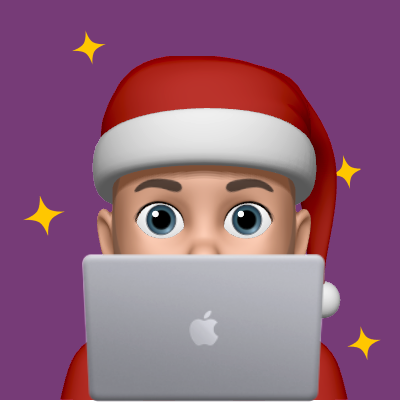
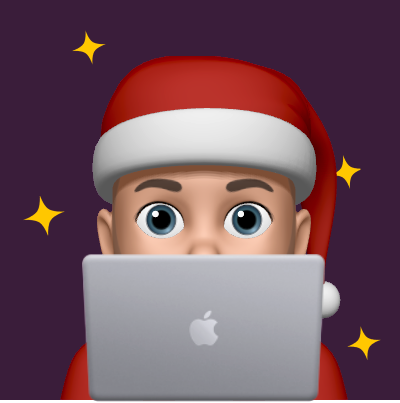
feat: add olaf santa head 🎅

diff --git a/pages/_document.tsx b/pages/_document.tsx
@@ -2,6 +2,54 @@ import Document, { Main, Head, Html, NextScript, DocumentContext } from 'next/do
 import Script from 'next/script';
 import { ScriptAfterInteraction } from '../components/shared/components/scriptAfterInteraction/ScriptAfterInteraction';
 
+type CreateSlotProps = {
+  children: Array<ReactElement>;
+  component: (props?: any) => JSX.Element;
+};
+
+function createSlot({ children, component }: CreateSlotProps) {
+  return Children.toArray(children).filter(
+    (child) => isValidElement(child) && child.type === component,
+  );
+}
+
+const CardHeader = ({ name }: { name: string }) => {
+  return <header>name</header>;
+};
+
+const CardFooter = () => {
+  return <footer>siema</footer>;
+};
+
+const Card = ({ children }: { children: Array<ReactElement> }) => {
+  const header = createSlot({
+    children,
+    component: CardHeader,
+  });
+
+  const footer = createSlot({
+    children,
+    component: CardFooter,
+  });
+
+  return (
+    <article>
+      <div>
+        <div>{header}</div>
+      </div>
+      <div>{footer}</div>
+    </article>
+  );
+};
+
+Card.Header = CardHeader;
+Card.Footer = CardFooter;
+
+<Card>
+  <CardHeader name="ss" />
+  <CardFooter />
+</Card>;
+
 class MyDocument extends Document {
   static async getInitialProps(ctx: DocumentContext) {
     const initialProps = await Document.getInitialProps(ctx);

diff --git a/components/shared/components/newsletter/Newsletter.tsx b/components/shared/components/newsletter/Newsletter.tsx
@@ -9,7 +9,7 @@ export const Newsletter = () => {
       <Decoration className={styles.decoration} />
       <h2 className={styles.heading}>Newsletter dla Frontend Developerów 📮</h2>
       <div className={styles.image}>
-        <Image src="/images/olaf-love.png" alt="" width={288} height={293} quality={100} />
+        <Image src="/images/olaf-love-santa.png" alt="" width={288} height={293} quality={100} />
       </div>
       <div className={styles.content}>
         <p className={styles.text}>

diff --git a/components/header/hero/Hero.tsx b/components/header/hero/Hero.tsx
@@ -7,10 +7,10 @@ export const Hero = () => {
     <div className={styles.container}>
       <div className={styles.heroImage}>
         <Image
-          src="/images/olaf-shut-up.png"
+          src="/images/olaf-head-santa.png"
           alt="Olaf Sulich"
-          width="288"
-          height="318"
+          width="502"
+          height="414"
           quality={100}
           priority
         />

diff --git a/components/autor/Autor.tsx b/components/autor/Autor.tsx
@@ -9,7 +9,7 @@ export const Author = () => {
       <h2 className="visually-hidden">O autorze</h2>
       <div className={styles.image}>
         <Image
-          src="/images/olaf-circle.png"
+          src="/images/olaf-circle-midnight.png"
           alt="Olaf Sulich"
           width={200}
           height={200}
